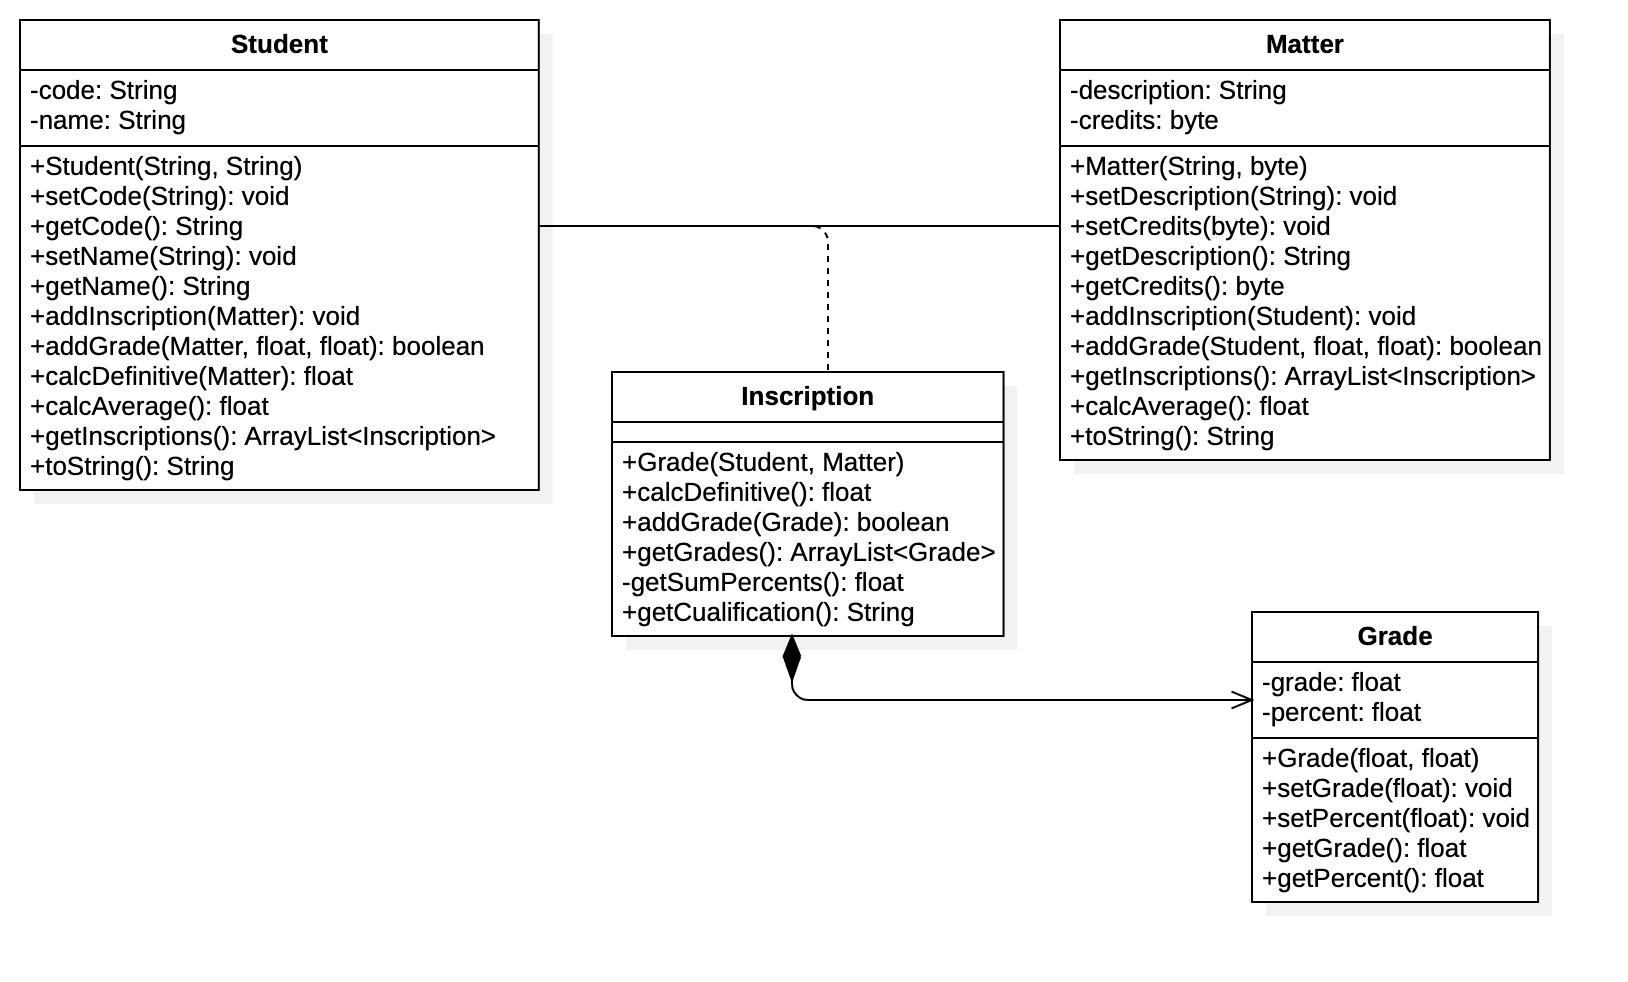
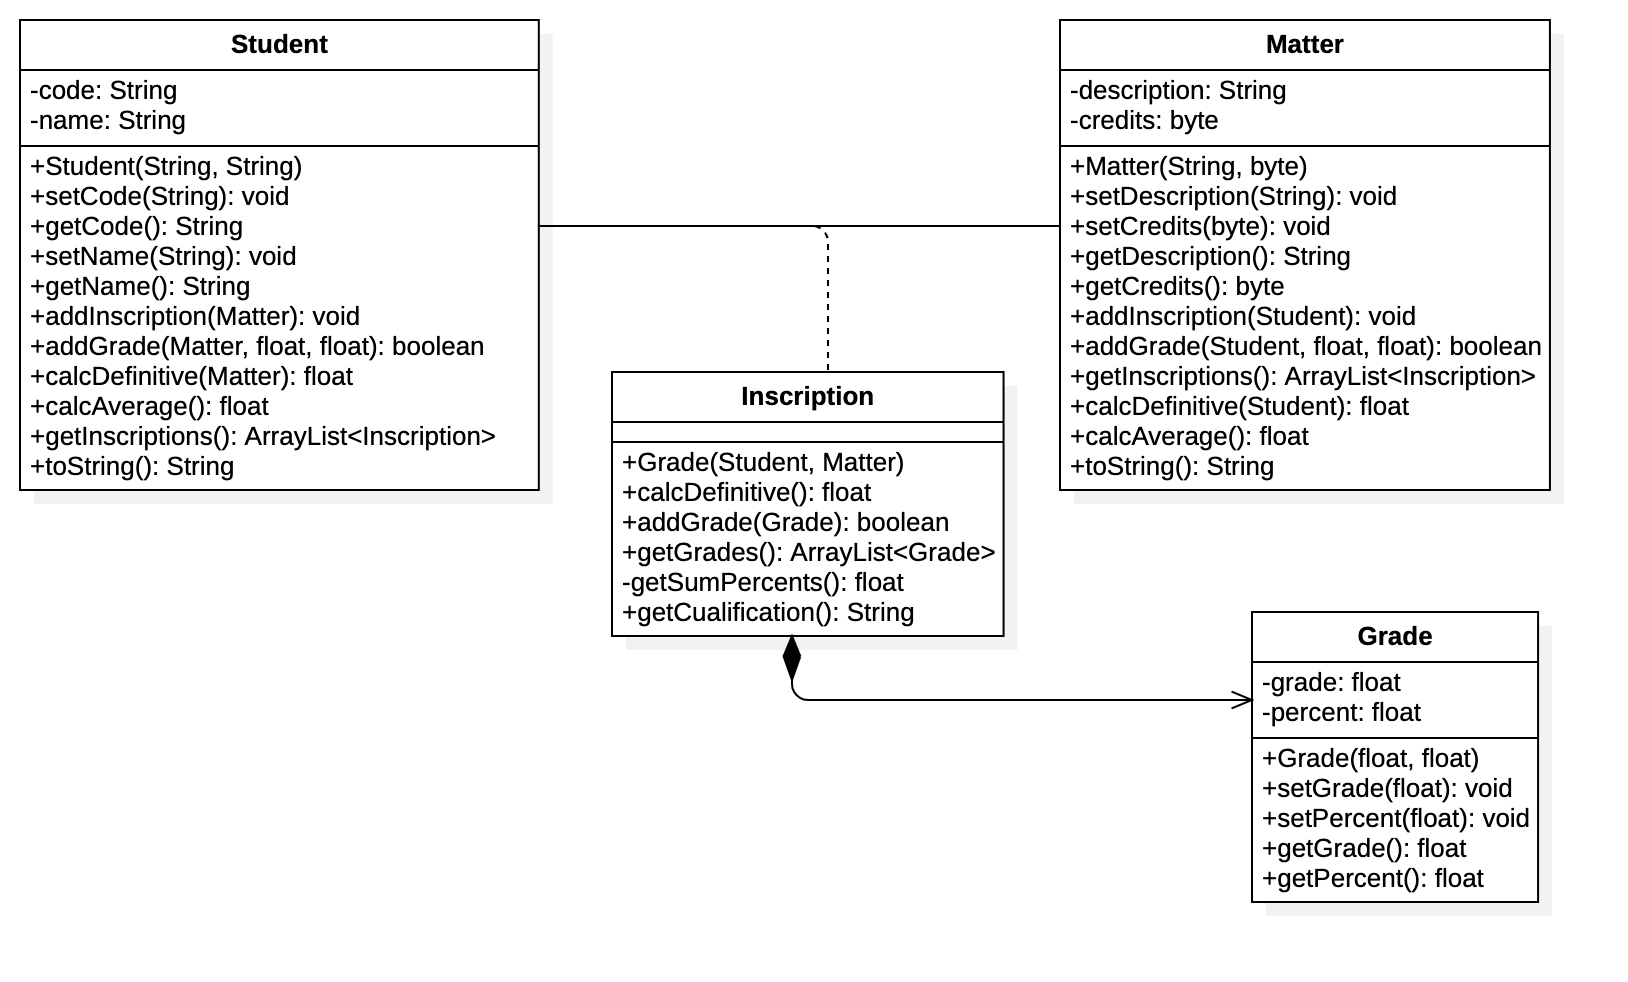
Version con la logica de la clase Matter

Changed region(s): [[0.645, 0.3971, 0.86, 0.4888]]

diff --git a/test/source/logic/MatterTest.java b/test/source/logic/MatterTest.java
@@ -1,0 +1,66 @@
+package logic;
+
+import org.junit.jupiter.api.Test;
+
+import static org.junit.jupiter.api.Assertions.*;
+
+class MatterTest {
+    private Matter matter;
+    private Student lola;
+    private Student mateo;
+
+    private void setup(){
+        matter = new Matter("Calculo I",(byte)4);
+        lola = new Student("4563563","Dolores Diaz");
+        mateo =  new Student("8374462","Mateo Suárez");
+        matter.addInscription( lola );
+        matter.addInscription( mateo );
+    }
+
+    @Test
+    void addGrade() {
+        setup();
+        assertTrue(matter.addGrade(lola,2.5f,20f));
+        assertFalse(matter.addGrade(lola,2.5f,81f));
+        assertTrue(matter.addGrade(lola,3.5f,40f));
+        assertTrue(matter.addGrade(lola,4.0f,40f));
+        assertFalse(matter.addGrade(lola,2.5f,1f));
+    }
+
+    @Test
+    void calcAverage() {
+        setup();
+        matter.addGrade(lola,2.5f,20f);
+        matter.addGrade(lola,3.5f,40f);
+        matter.addGrade(lola,4.0f,40f);
+        assertEquals(3.5,matter.calcDefinitive(lola));
+
+        matter.addGrade(mateo,2.0f,20f); // 0.4
+        matter.addGrade(mateo,3.0f,30f); // 0.9
+        matter.addGrade(mateo,2.0f,30f); //0.6
+        matter.addGrade(mateo,1.5f,20f); //0.3
+        assertEquals(2.2,matter.calcDefinitive( mateo ),0.1);
+
+        assertEquals(2.85,matter.calcAverage(),0.1);
+    }
+
+    @Test
+    void calcDefinitive(){
+        setup();
+        matter.addGrade(lola,2.5f,20f);
+        matter.addGrade(lola,3.5f,40f);
+        matter.addGrade(lola,4.0f,40f);
+        assertEquals(3.5,matter.calcDefinitive( lola ) );
+        assertEquals(0.0,matter.calcDefinitive( mateo ));
+        matter.addGrade(mateo,2.5f,20f);
+        assertEquals(0.5,matter.calcDefinitive( mateo ));
+    }
+
+    @Test
+    void getInscriptions(){
+        setup();
+        assertEquals(2,matter.getInscriptions().size());
+        assertNotNull( matter.getInscriptions().get(0).getStudent());
+        assertNotNull( matter.getInscriptions().get(1).getStudent());
+    }
+}

diff --git a/src/logic/Matter.java b/src/logic/Matter.java
@@ -30,11 +30,17 @@ public class Matter {
         this.credits = credits;
     }
 
-    public void addInscription(){
-
+    public void addInscription(Student student){
+        inscriptions.add( new Inscription( student, this ) );
     }
 
     public boolean addGrade( Student student, float grade, float percent ){
+
+        for( Inscription inscription : inscriptions ){
+            if ( inscription.getStudent() == student ){
+                return inscription.addGrade( inscription.new Grade( grade, percent));
+            }
+        }
 
         return false;
     }
@@ -43,9 +49,23 @@ public class Matter {
         return (ArrayList<Inscription>) inscriptions.clone();
     }
 
-    public float calcAverage(){
+    public float calcDefinitive( Student student ){
+        for( Inscription inscription : inscriptions ){
+            if ( inscription.getStudent() == student ){
+                return inscription.calcDefinitive();
+            }
+        }
 
         return 0.0f;
+    }
+
+    public float calcAverage(){
+        float avg = 0.0f;
+        for( Inscription inscription : inscriptions ){
+            avg += inscription.calcDefinitive();
+        }
+
+        return avg / inscriptions.size();
     }
 
     @Override

diff --git a/test/source/logic/InscriptionTest.java b/test/source/logic/InscriptionTest.java
@@ -50,4 +50,18 @@ class InscriptionTest {
         inscription.addGrade( grade1 );
         assertEquals(100.0,inscription.getSumPercents());
     }
+
+    @Test
+    void getCualification(){
+        setup();
+        Inscription.Grade grade1 = inscription.new Grade(4.0f,30f);
+        Inscription.Grade grade2 = inscription.new Grade(3.5f,40f);
+        Inscription.Grade grade3 = inscription.new Grade(5.0f,30f);
+        inscription.addGrade( grade1 );
+        assertEquals("INSUFICIENTE",inscription.getCualification());
+        inscription.addGrade( grade2 );
+        assertEquals("NO APROBADO",inscription.getCualification());
+        inscription.addGrade( grade3 );
+        assertEquals("EXCELENTE",inscription.getCualification());
+    }
 }

diff --git a/src/logic/Inscription.java b/src/logic/Inscription.java
@@ -63,6 +63,19 @@ public class Inscription {
         return sum;
     }
 
+    public String getCualification(){
+
+        float definitive = calcDefinitive();
+        if( definitive >= 0 && definitive <= 2 )
+            return "INSUFICIENTE";
+        else if( definitive > 2 && definitive < 3 )
+            return "NO APROBADO";
+        else if( definitive >= 3 && definitive < 4 )
+            return "APROBADO";
+        else
+            return "EXCELENTE";
+    }
+
     public class Grade{
         private float grade;
         private float percent;
